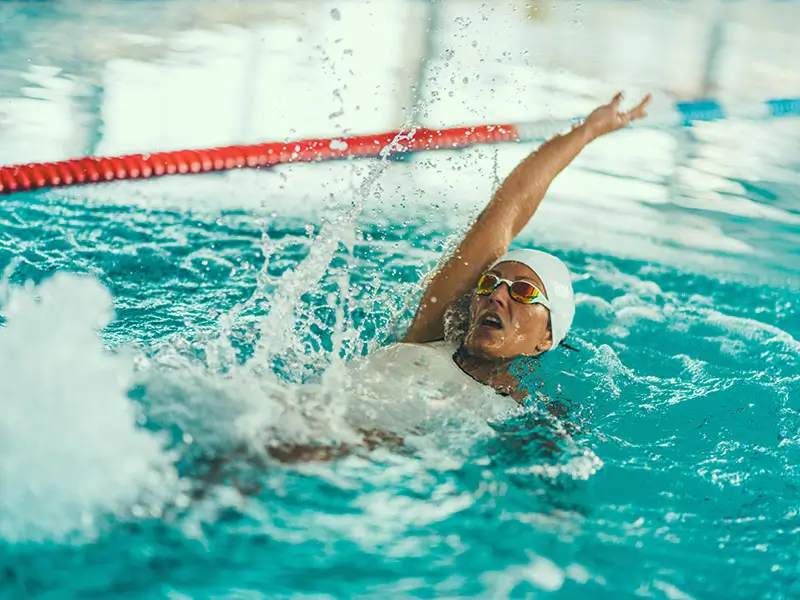
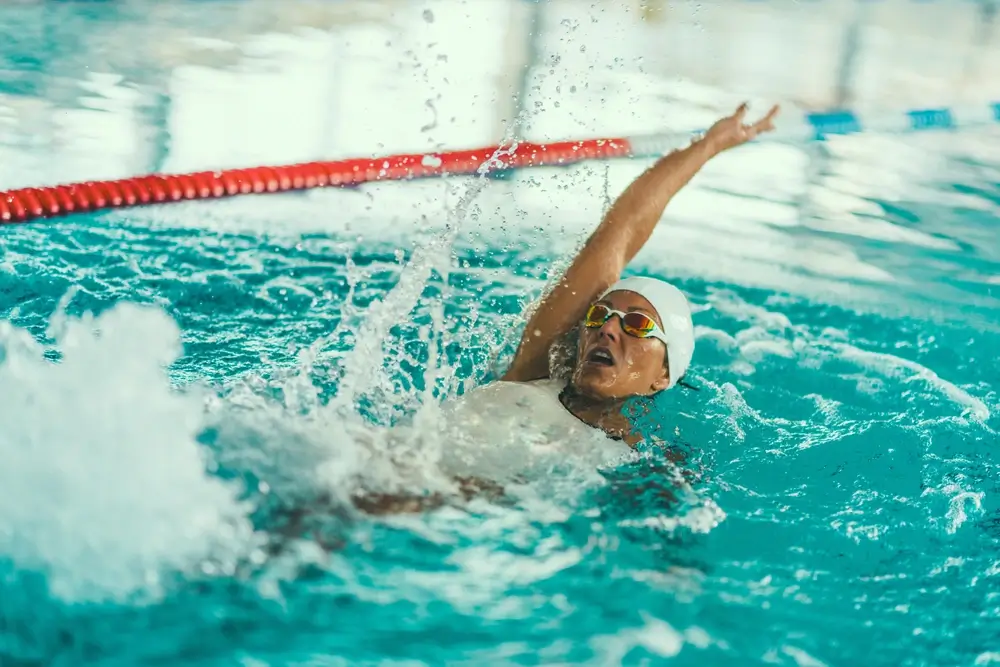
fix: Pictures dimensoin updated.

diff --git a/index.html b/index.html
@@ -236,7 +236,7 @@
                     <h4 id="butterfly">Butterfly</h4>
                     <div class="content">
                         <div class="content-image">
-                            <img src="assets/images/butterfly.webp" width="800" height="600" alt="Butterfly swimming a woman">
+                            <img src="assets/images/butterfly.webp" alt="Butterfly swimming a woman">
                             <a class="backTypes" href="#types"><i class="fa-solid fa-angle-up"></i> Back to Types</a>
                         </div>
                         <div class="content-text">
@@ -259,7 +259,7 @@
                     <h4 id="breaststroke">Breaststroke</h4>
                     <div class="content">
                         <div class="content-image">
-                            <img src="assets/images/breaststroke.webp" width="800" height="600" alt="Breaststroke swimming a woman">
+                            <img src="assets/images/breaststroke.webp" alt="Breaststroke swimming a woman">
                             <a class="backTypes" href="#types"><i class="fa-solid fa-angle-up"></i> Back to Types</a>
                         </div>
                         <div class="content-text">
@@ -282,7 +282,7 @@
                     <h4 id="backstroke">Backstroke</h4>
                     <div class="content">
                         <div class="content-image">
-                            <img src="assets/images/backstroke.webp" width="800" height="600" alt="Backstroke swimming a woman">
+                            <img src="assets/images/backstroke.webp" alt="Backstroke swimming a woman">
                             <a class="backTypes" href="#types"><i class="fa-solid fa-angle-up"></i> Back to Types</a>
                         </div>
                         <div class="content-text">

diff --git a/assets/css/style.css b/assets/css/style.css
@@ -142,7 +142,7 @@
   /* #region Hero section */
   section#hero{
     width:100%;
-    background: url('../images/audi_Hero.jpg') no-repeat center center / cover;
+    background: url('../images/hero_mini.webp') no-repeat center center / cover;
     height: 650px;
     position: relative;
   }
